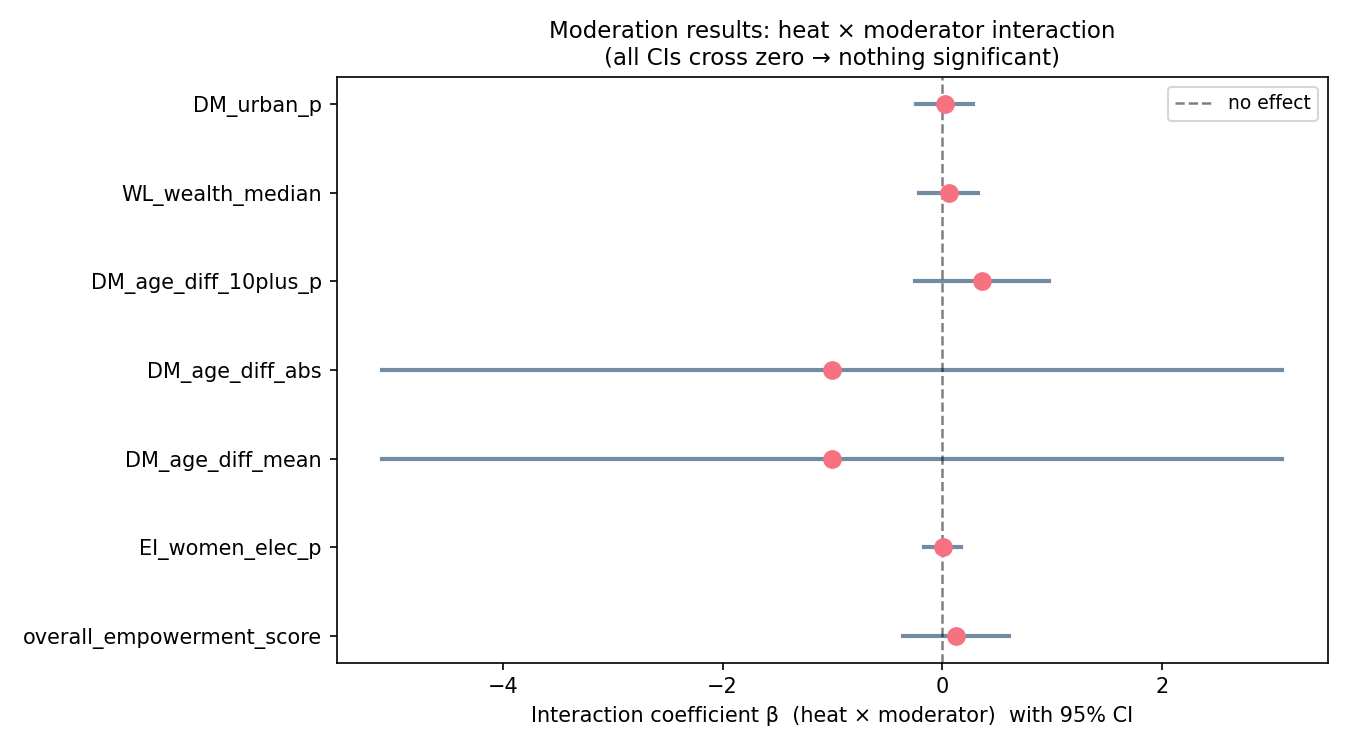
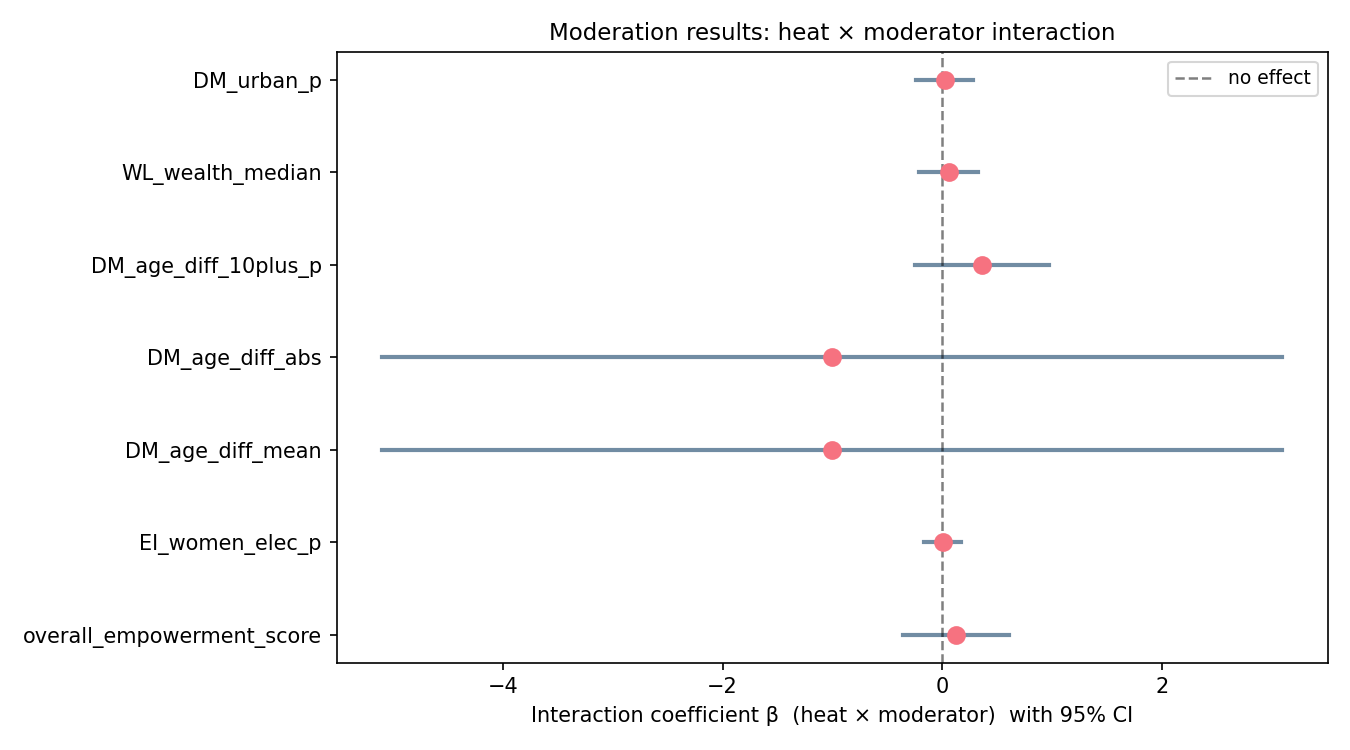
small fix

diff --git a/phase2/moderator_exploration/moderators.py b/phase2/moderator_exploration/moderators.py
@@ -569,7 +569,7 @@ ax.axvline(x=0, color="black", linewidth=1.2, linestyle="--", alpha=0.5, label="
 ax.set_yticks(range(len(moderator_labels)))
 ax.set_yticklabels(moderator_labels, fontsize=10)
 ax.set_xlabel("Interaction coefficient β  (heat × moderator)  with 95% CI", fontsize=10)
-ax.set_title("Moderation results: heat × moderator interaction\n(all CIs cross zero → nothing significant)", fontsize=11)
+ax.set_title("Moderation results: heat × moderator interaction", fontsize=11)
 ax.legend(fontsize=9)
 
 plt.tight_layout()
